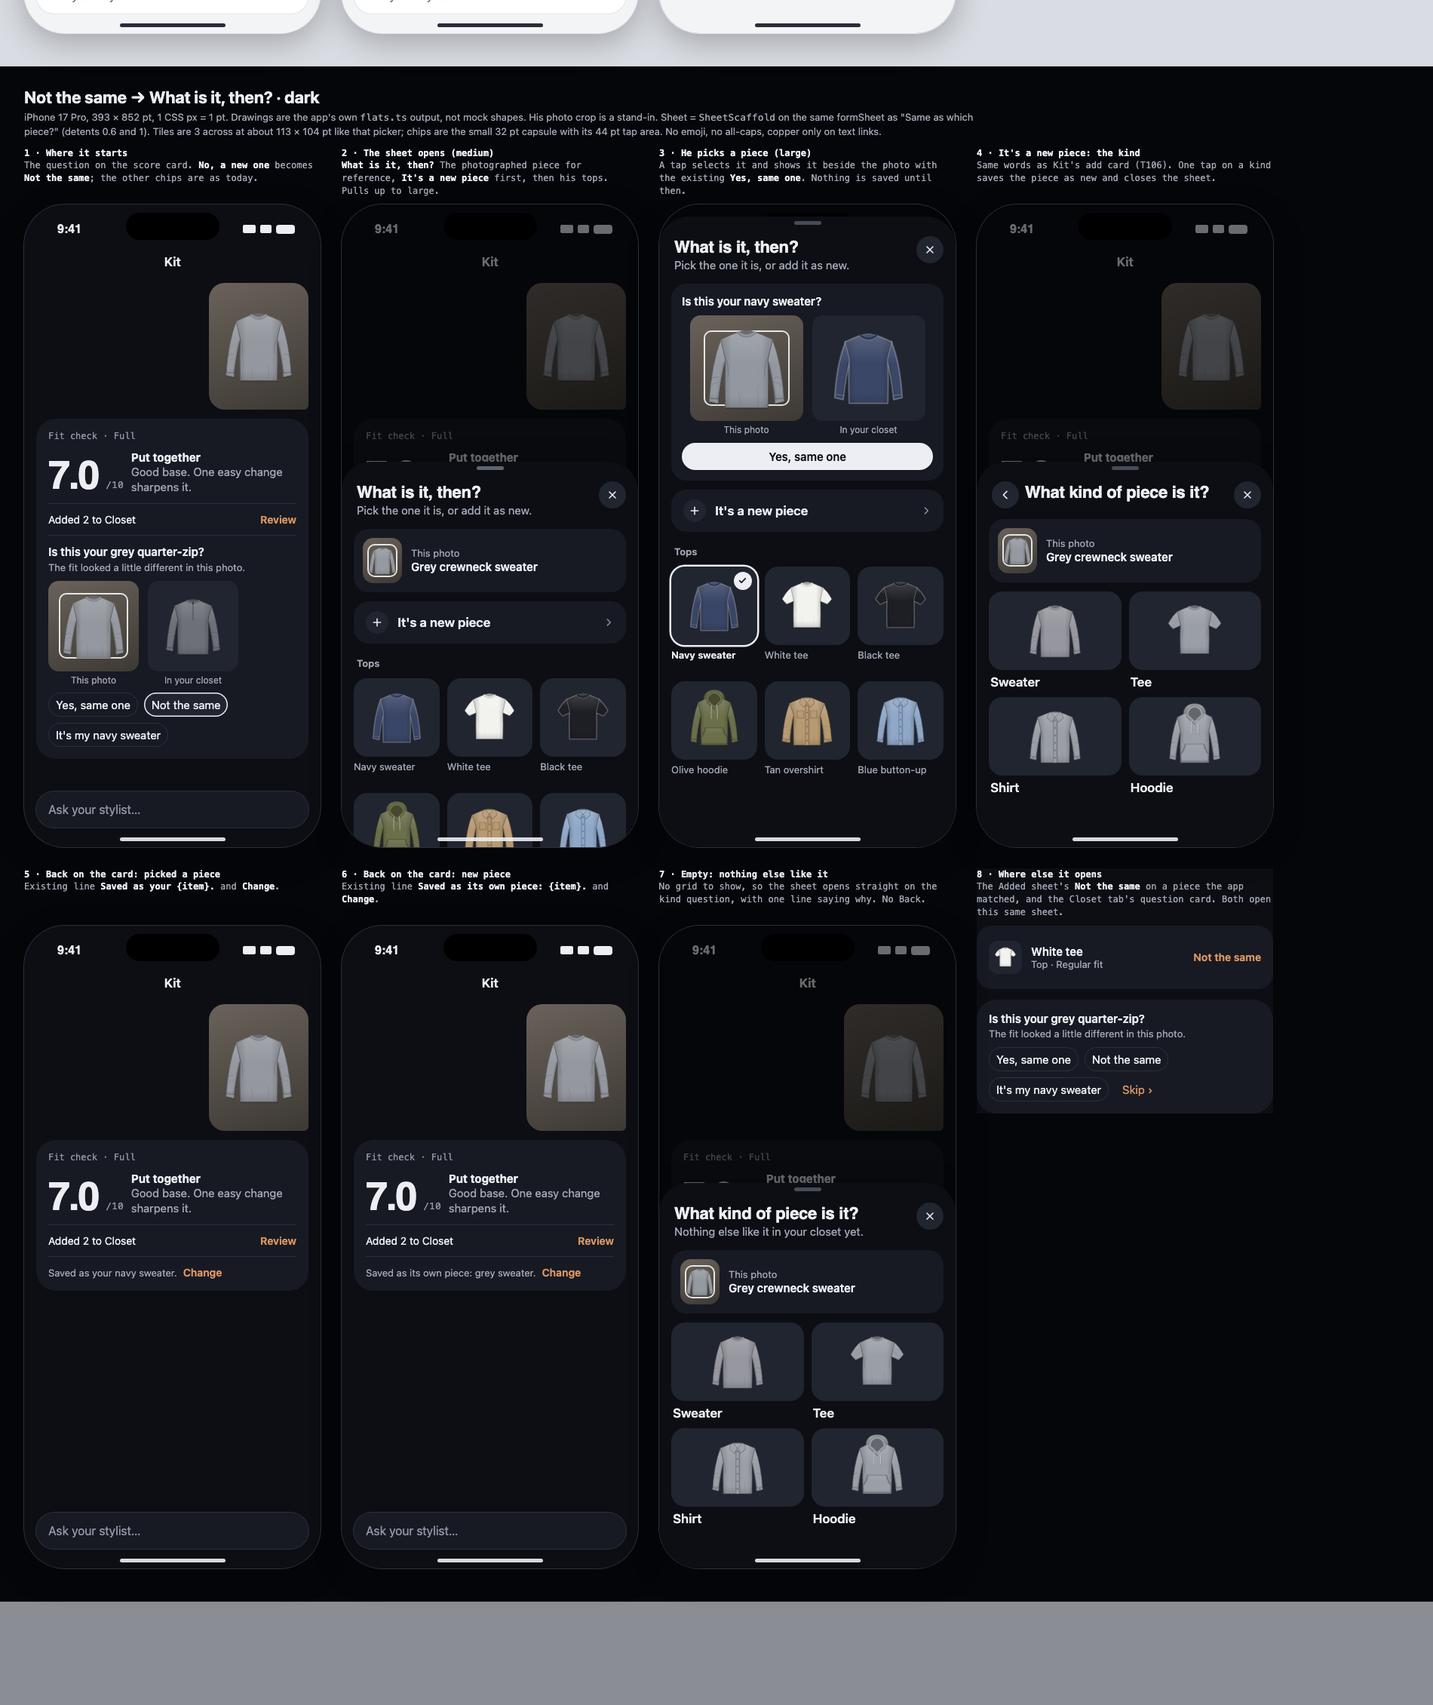
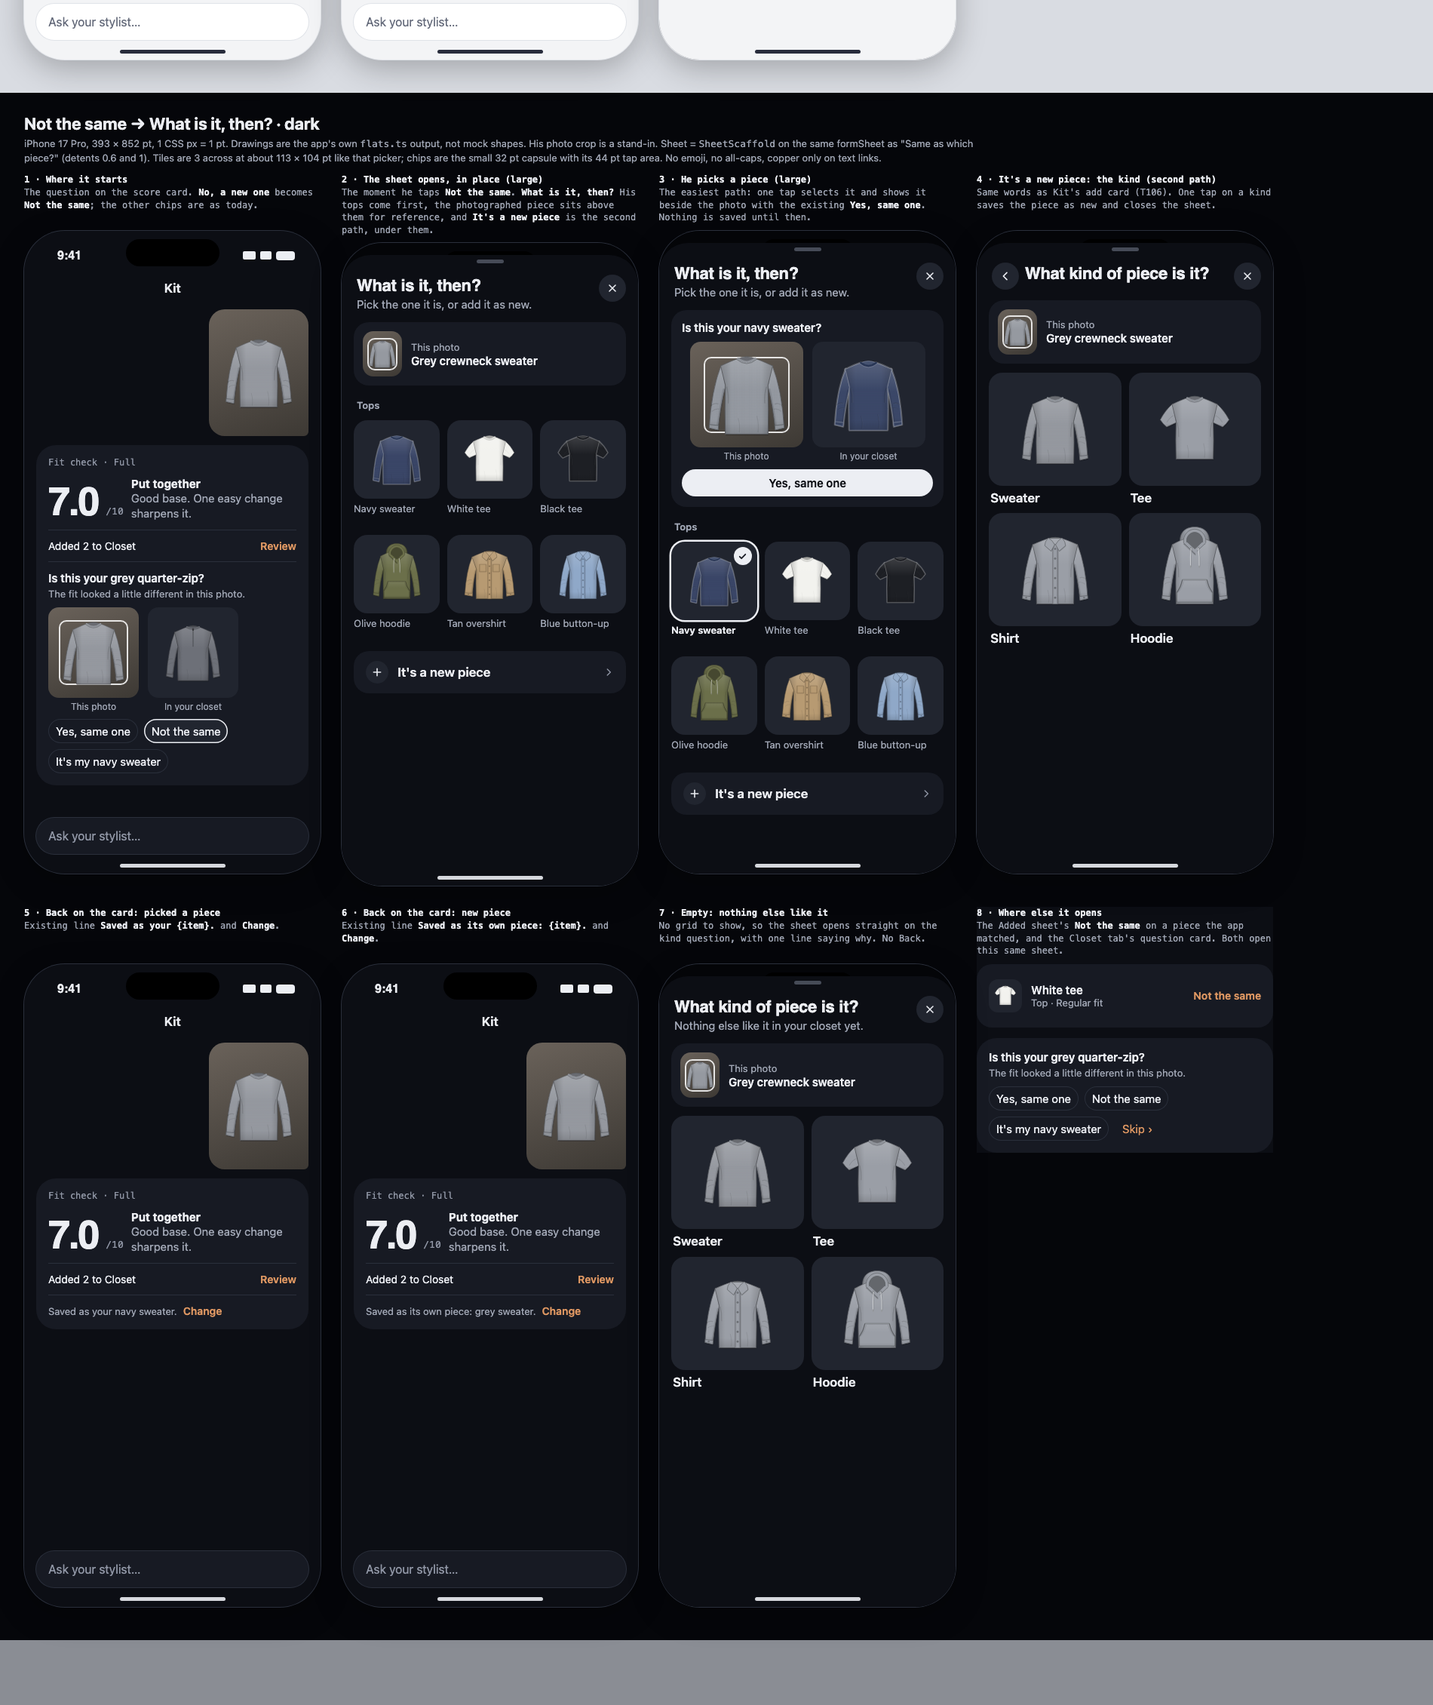
Not the same sheet: his own pieces first, new piece second, asked in place (founder's restated goal, Nov 19)

diff --git a/tasks/not-same-picker/design.html b/tasks/not-same-picker/design.html
@@ -78,7 +78,7 @@ h2{font-size:15px;margin:26px 0 8px;color:var(--ink2);font-weight:600}
 .badge{position:absolute;top:7px;right:7px;width:24px;height:24px;border-radius:12px;background:var(--ink);display:grid;place-items:center}
 .badge svg{width:13px;height:13px;stroke:var(--surface)}
 .grid2{display:grid;grid-template-columns:1fr 1fr;column-gap:10px;row-gap:10px}
-.grid2 .bx{height:104px}
+.grid2 .bx{height:150px}
 .grid2 .lb{font-size:17px;font-weight:600;color:var(--ink);min-height:0;text-align:left;padding-left:2px}
 .btnp{height:36px;border-radius:18px;background:var(--primary);color:var(--onPrimary);display:flex;align-items:center;justify-content:center;font-size:15px;font-weight:600;position:relative}
 .btnp::after{content:"";position:absolute;inset:-4px 0}
@@ -132,9 +132,9 @@ const newRow=()=>`<div class="nrow"><div class="pl">${IC.plus}</div>It's a new p
 const TOPS=[['navyCrew','Navy sweater'],['whiteTee','White tee'],['blackTee','Black tee'],['oliveHood','Olive hoodie'],['tanOver','Tan overshirt'],['blueShirt','Blue button-up']];
 const grid=(sc,sel)=>`<div class="grid3">${TOPS.map(([k,n])=>`<div class="tile ${sel===k?'sel':''}"><div class="bx">${art(k,86,sc)}${sel===k?`<div class="badge">${IC.check}</div>`:''}</div><div class="lb">${n}</div></div>`).join('')}</div>`;
 function sheetPick(sc,detent){
- return `<div class="sheet med"><div class="grab"></div>${''}
+ return `<div class="sheet lg">
   ${head('What is it, then?','Pick the one it is, or add it as new.')}
-  <div class="sh-body">${refRow(sc)}${newRow()}<div class="sec">Tops</div>${grid(sc)}</div></div>`;
+  <div class="sh-body">${refRow(sc)}<div class="sec">Tops</div>${grid(sc)}${newRow()}</div></div>`;
 }
 function sheetConfirm(sc){
  return `<div class="sheet lg">
@@ -143,12 +143,12 @@ function sheetConfirm(sc){
     <div class="t" style="font-size:15px;font-weight:600">Is this your navy sweater?</div>
     <div class="pair" style="justify-content:center"><div class="fr">${crop(150,140,sc)}This photo</div><div class="fr">${tilebox('navyCrew',150,140,sc)}In your closet</div></div>
     <div class="btnp">Yes, same one</div></div>
-   ${newRow()}<div class="sec">Tops</div>${grid(sc,'navyCrew')}</div></div>`;
+   <div class="sec">Tops</div>${grid(sc,'navyCrew')}${newRow()}</div></div>`;
 }
 const KINDS=[['kSweater','Sweater'],['kTee','Tee'],['kShirt','Shirt'],['kHoodie','Hoodie']];
-const kindGrid=(sc)=>`<div class="grid2 tile">${KINDS.map(([k,n])=>`<div class="tile"><div class="bx">${art(k,92,sc)}</div><div class="lb">${n}</div></div>`).join('')}</div>`;
+const kindGrid=(sc)=>`<div class="grid2 tile">${KINDS.map(([k,n])=>`<div class="tile"><div class="bx">${art(k,120,sc)}</div><div class="lb">${n}</div></div>`).join('')}</div>`;
 function sheetKind(sc,{empty}={}){
- return `<div class="sheet med">
+ return `<div class="sheet lg">
   ${head('What kind of piece is it?',empty?'Nothing else like it in your closet yet.':'',{back:!empty})}
   <div class="sh-body">${refRow(sc)}${kindGrid(sc)}</div></div>`;
 }
@@ -157,9 +157,9 @@ const withSheet=(sc,state,sheet)=>chat(sc,state,`<div class="dim"></div>${sheet}
 function frames(sc){
  const F=[
   ['1 · Where it starts','The question on the score card. <b>No, a new one</b> becomes <b>Not the same</b>; the other chips are as today.',chat(sc,'press')],
-  ['2 · The sheet opens (medium)','<b>What is it, then?</b> The photographed piece for reference, <b>It\'s a new piece</b> first, then his tops. Pulls up to large.',withSheet(sc,'press',sheetPick(sc))],
-  ['3 · He picks a piece (large)','A tap selects it and shows it beside the photo with the existing <b>Yes, same one</b>. Nothing is saved until then.',withSheet(sc,'press',sheetConfirm(sc))],
-  ['4 · It\'s a new piece: the kind','Same words as Kit\'s add card (T106). One tap on a kind saves the piece as new and closes the sheet.',withSheet(sc,'press',sheetKind(sc))],
+  ['2 · The sheet opens, in place (large)','The moment he taps <b>Not the same</b>. <b>What is it, then?</b> His tops come first, the photographed piece sits above them for reference, and <b>It\'s a new piece</b> is the second path, under them.',withSheet(sc,'press',sheetPick(sc))],
+  ['3 · He picks a piece (large)','The easiest path: one tap selects it and shows it beside the photo with the existing <b>Yes, same one</b>. Nothing is saved until then.',withSheet(sc,'press',sheetConfirm(sc))],
+  ['4 · It\'s a new piece: the kind (second path)','Same words as Kit\'s add card (T106). One tap on a kind saves the piece as new and closes the sheet.',withSheet(sc,'press',sheetKind(sc))],
   ['5 · Back on the card: picked a piece','Existing line <b>Saved as your {item}.</b> and <b>Change</b>.',chat(sc,'pick')],
   ['6 · Back on the card: new piece','Existing line <b>Saved as its own piece: {item}.</b> and <b>Change</b>.',chat(sc,'new')],
   ['7 · Empty: nothing else like it','No grid to show, so the sheet opens straight on the kind question, with one line saying why. No Back.',withSheet(sc,'press',sheetKind(sc,{empty:true}))]
@@ -183,7 +183,7 @@ document.getElementById('root').innerHTML=
 `<div class="panel light" style="padding-bottom:6px"><h1>Not the same: the "What is it, then?" sheet</h1>
 <p class="note">Design pass for the founder's Nov 19 request (voice): when he says a piece isn't the one the app asked about, a sheet asks what it is, shows his other pieces of that kind so he can say "it's this one" instead of adding a duplicate, and, for a new piece, confirms its kind. Frames are the key states; light first, then dark. Nothing here is built, and no spec has changed.</p>
 <div class="notes">
-<div><b>Why the sheet opens on a new-piece row first.</b> The app's best guess was just ruled out, so a new piece is the likelier answer. The row sits above the grid so it never scrolls out of reach on a big closet.</div>
+<div><b>Pick one of yours comes first (the founder, Nov 19).</b> When the app thinks a piece already exists, the question is asked right there, on the card, at the moment he taps Not the same, not later as a chore in Closet. His own pieces are the first and easiest path; <b>It's a new piece</b> is the second, directly under them. The sheet opens at large so both are in view on a normal closet; a long closet scrolls, and the row follows the last tile.</div>
 <div><b>Why a picked piece is confirmed.</b> Picking folds this photo into that piece (wears, photos). The comparison reuses the question's own two pictures and <b>Yes, same one</b>, so it reads like the question he just answered.</div>
 <div><b>Which pieces are shown.</b> His other pieces in the same slot (top, bottom, shoes, layer), closest first. The piece he just said no to and the photographed piece itself are left out. Same rule as "Same as which piece?".</div>
 <div><b>Apple HIG.</b> A sheet with medium and large detents, a grabber, and a visible close button; one level of navigation inside it (Back on the kind step), never a second sheet. Targets: tiles 113 × 104+, rows 56, chips and buttons 44 pt with the invisible padding. Dynamic Type: at the largest sizes the grid is 2 across and the kind options 1 across, and the sheet opens at large only.</div>

diff --git a/tasks/not-same-picker/spec-proposal.md b/tasks/not-same-picker/spec-proposal.md
@@ -2,6 +2,8 @@
 
 **Status: a proposal, not approved.** It adds to `specs/closet-beta.md` (new section CB4) and changes two words there. `specs/closet-beta.md` itself is untouched until the founder says yes in chat. Frames: `design.html` (light and dark), screenshots in `shots/`.
 
+**The goal, restated by the founder (Nov 19, relayed by the control session):** "When we think it's a piece that already exists inside the closet, instead of duplicating it, we ask the user there and then which piece in particular it is." So the question is asked in place, the moment he taps `Not the same` on the card, not later as a chore in Closet; and picking one of his own pieces is the first, easiest path, with `It's a new piece` second.
+
 **Where it came from:** the founder, Nov 19 (voice): when he taps "not the same piece" on the card, "a whole pop-up type of thing: 'What is it, then? If it's a new one, just for confirmation, is it a shirt, or this, or that?' … if it's tops, just give the user options to add it there instead of duplicating it inside the closet."
 
 ## What he sees today (read from the code and specs)
@@ -16,11 +18,11 @@
 So the literal words `Not the same` exist only on the Added sheet. On the card the chip is `No, a new one`.
 
 ## Proposed behavior (CB4)
-**Entry.** The chip `No, a new one` becomes `Not the same` on the card, in the deck, and in the Added sheet's inline question. The Added sheet's `Not the same` link already says it. All of them open one sheet (the app's formSheet, detents 0.6 and 1, grabber, X). `Yes, same one` and `It's my {runner-up}` do not change. Closing the sheet (X or swipe down) saves nothing and the question stays open.
+**Entry, asked in place.** Nothing waits for Closet: the sheet is the question. The chip `No, a new one` becomes `Not the same` on the card, in the deck, and in the Added sheet's inline question. The Added sheet's `Not the same` link already says it. All of them open one sheet (the app's formSheet, detents 0.6 and 1, grabber, X). `Yes, same one` and `It's my {runner-up}` do not change. Closing the sheet (X or swipe down) saves nothing; the question stays open exactly as it is today (it stays on the card and in Closet's To confirm), so nothing is lost, but the point is that he answers it here.
 
-**The sheet, "What is it, then?" (frames 2, 3).** From the top: the title and the line `Pick the one it is, or add it as new.`; the photographed piece for reference (its crop from this photo, `This photo`, and the name the app read); the row `It's a new piece`; then his other pieces of the same slot as drawn tiles, titled with the Closet's own section name (`Tops`, `Bottoms`, `Shoes`, `Jackets and layers`).
+**The sheet, "What is it, then?" (frames 2, 3).** It opens at once, over the card, at the large detent (he can drag it down to medium). From the top: the title and the line `Pick the one it is, or add it as new.`; the photographed piece for reference (its crop from this photo, `This photo`, and the name the app read); his other pieces of the same slot as drawn tiles, titled with the Closet's own section name (`Tops`, `Bottoms`, `Shoes`, `Jackets and layers`); and under the tiles the second path, the row `It's a new piece`. On a normal closet (up to about six pieces in the slot) everything is in view; on a longer one the tiles scroll and the row follows the last tile.
 - **Which pieces:** his live, owned pieces in the same slot, the way "Same as which piece?" lists them (`mergeCandidates`), minus the piece he just said no to and the photographed piece itself, minus any still waiting on an answer. Closest first (the runner-up if there is one), then newest first. No limit; the sheet scrolls.
-- **Picking a piece (frame 3).** A tap selects the tile (a ring and a check). The top of the sheet then shows the question's own two pictures, `This photo` and `In your closet`, under `Is this your navy sweater?` with `Yes, same one`. Tapping another tile switches; tapping the selected tile clears it. Nothing is saved until `Yes, same one`. Then the sheet closes and the card reads `Saved as your navy sweater.` · `Change`. The photo's piece folds into the picked one exactly as `Yes, same one` does today (sighting moves, worn count and photos join, the two are never asked about again).
+- **Picking a piece (frame 3).** A tap selects the tile (a ring and a check) and the sheet scrolls to the top, where the reference row has turned into the comparison. It shows the question's own two pictures, `This photo` and `In your closet`, under `Is this your navy sweater?` with `Yes, same one`. Tapping another tile switches; tapping the selected tile clears it. Nothing is saved until `Yes, same one`. Then the sheet closes and the card reads `Saved as your navy sweater.` · `Change`. The photo's piece folds into the picked one exactly as `Yes, same one` does today (sighting moves, worn count and photos join, the two are never asked about again).
 - **A new piece (frame 4).** `It's a new piece` opens the next step in the same sheet (one level, a Back button, never a second sheet): the title `What kind of piece is it?` (the words and the 2–4 options pattern of Kit's add card, KC4.7), the reference row, and 2 to 4 drawn kinds in this piece's own color: the kind the app read first, then up to three nearest kinds of the same slot (for a top: Sweater, Tee, Shirt, Hoodie). One tap on a kind saves the piece as new with that kind confirmed (its name and drawing follow, as with `What it is → Kind` on the piece page), closes the sheet, and the card reads `Saved as its own piece: grey sweater.` · `Change`.
 - **Nothing else like it (frame 7).** If there is no other piece in that slot to pick, the sheet opens straight on the kind step, with the line `Nothing else like it in your closet yet.` and no Back.
 
@@ -33,7 +35,7 @@ So the literal words `Not the same` exist only on the Added sheet. On the card t
 |---|---|---|
 | `What is it, then?` | sheet title | **new**, his own words |
 | `Pick the one it is, or add it as new.` | sheet line | **new** |
-| `It's a new piece` | the row | **new** |
+| `It's a new piece` | the second path, under the tiles | **new** |
 | `Nothing else like it in your closet yet.` | the empty case's line | **new** |
 | `Not the same` | the chip, replacing `No, a new one` | **changed** (the Added sheet already uses it) |
 | `What kind of piece is it?` | the kind step | T106's words (`ask.card.addKind`), reused |
@@ -51,8 +53,8 @@ Opening (the same slot's pieces load from the phone, so none) · pick list · a 
 
 ## Pass/fail checks
 - **NS1** On the card, in the deck and in the Added sheet's question, the chip reads `Not the same` (never `No, a new one`), and it opens the sheet. `Yes, same one` and `It's my {item}` still answer at once.
-- **NS2** The sheet shows the title, the line, the photographed piece with its name, the `It's a new piece` row, then only pieces of the photographed piece's slot. It never lists the piece he just refused, the photographed piece, or a piece still waiting on an answer.
-- **NS3** Order: the runner-up first (when there is one), then newest first.
+- **NS2** The sheet opens at the large detent the moment `Not the same` is tapped, with no step in between. It shows the title, the line, the photographed piece with its name, then only pieces of the photographed piece's slot, then the `It's a new piece` row last. It never lists the piece he just refused, the photographed piece, or a piece still waiting on an answer.
+- **NS3** Order of the tiles: the runner-up first (when there is one), then newest first. Picking a piece is the first thing on the sheet; `It's a new piece` is never above the tiles.
 - **NS4** A tap on a tile saves nothing; it selects it and shows `Is this your {item}?` with both pictures and `Yes, same one`. A second tap on the same tile clears it; a tap on another switches.
 - **NS5** `Yes, same one` on the selection folds the photo's piece into the picked piece exactly as `Yes, same one` on a question does (same rows, same worn count, never asked again), closes the sheet, and the card reads `Saved as your {item}.` with `Change`; `Change` undoes it as today.
 - **NS6** `It's a new piece` shows `What kind of piece is it?` with 2 to 4 kinds, all of the photographed piece's slot, the app's read kind first, each drawn in the piece's color. Back returns to the list with the selection cleared.
@@ -70,13 +72,13 @@ T106 adds `What kind of piece is it?` and `What color is it?` as tap questions i
 ## Size and files (recommendation: normal)
 It writes closet rows through the closet service, but only by re-using answers that exist (`same`, `runnerUp`, `new`) with a picked target and a confirmed kind. No scoring, privacy or age-gate logic is touched, so it does not need the strict path. One reviewer, tests for the logic, light, dark and largest-text screenshots.
 - New: `app/src/app/sheets/not-same/[checkId]/[obsId].tsx` (route) and `features/closet/NotSameSheet.tsx`; the pure rules (`notSameContent`: the pieces, their order, the kind list) in `features/closet/notSame.ts`.
-- Changed: `app/src/app/_layout.tsx` (one `sheet([0.6, 1])` entry); `features/closet/DuplicateQuestion.tsx` and `ConfirmDeck.tsx` (the chip opens the sheet); `features/stylist/cards/FitCheckCard.tsx` (the chip and its VoiceOver action); `features/added/AddedSheet.tsx` (both entries); `features/closet/service.ts` and `features/fitcheck/service.ts` (answer `pick` with a target id and `new` with a kind; today the target is only the ask's candidate or runner-up); `features/closet/answerToast.ts`; `i18n/en.ts` (+ the generated copy); the shared kind table from T106; `demo/scenarios.ts` (a demo screen per state); tests in `__tests__/closetService.test.ts` and a new `notSame.test.ts`.
+- Changed: `app/src/app/_layout.tsx` (one `sheet([0.6, 1])` entry, opening at the large detent); `features/closet/DuplicateQuestion.tsx` and `ConfirmDeck.tsx` (the chip opens the sheet); `features/stylist/cards/FitCheckCard.tsx` (the chip and its VoiceOver action); `features/added/AddedSheet.tsx` (both entries); `features/closet/service.ts` and `features/fitcheck/service.ts` (answer `pick` with a target id and `new` with a kind; today the target is only the ask's candidate or runner-up); `features/closet/answerToast.ts`; `i18n/en.ts` (+ the generated copy); the shared kind table from T106; `demo/scenarios.ts` (a demo screen per state); tests in `__tests__/closetService.test.ts` and a new `notSame.test.ts`.
 - Shared files to coordinate: `en.ts` and the closet service (T106 and the Closet lane touch them).
 
 ## Open taste questions, each with my recommendation
 1. **Rename the chip `No, a new one` to `Not the same`?** Yes. The sheet can end in "it's another piece of mine", so "No, a new one" would be wrong half the time, and the Added sheet already says `Not the same`.
 2. **Confirm a picked piece (two taps) or save on the first tap?** Confirm. A wrong merge moves wears and photos, and the comparison next to his photo is the safeguard; the question he just answered already works this way.
-3. **`It's a new piece` above the grid or below it?** Above. His best guess was just ruled out, so new is the likelier answer, and a big closet should not hide it.
-4. **Keep the `It's my {runner-up}` chip on the card?** Keep (one tap beats a sheet), and show that piece first in the grid.
+3. **`It's a new piece` above or below the tiles?** Settled by the founder: his pieces first, `It's a new piece` second, under them. Cost to watch: on a closet with more than about six pieces in the slot, the row is below the fold; I recommend leaving it there (the sheet opens at large, and the row follows the last tile) rather than adding a pinned bar.
+4. **Keep the `It's my {runner-up}` chip on the card?** Keep (one tap beats a sheet), and show that piece first in the grid. It is the same answer as picking that tile.
 5. **No `Something else` kind in the kind step?** None. Four kinds cover almost everything, and any piece's kind can be changed later on its page (`What it is`), as in T106.
 6. **After a new piece, say `Saved as its own piece: grey sweater.` instead of `Kept as a new piece.`?** Yes, it shows the kind he chose and is a line the app already has.
